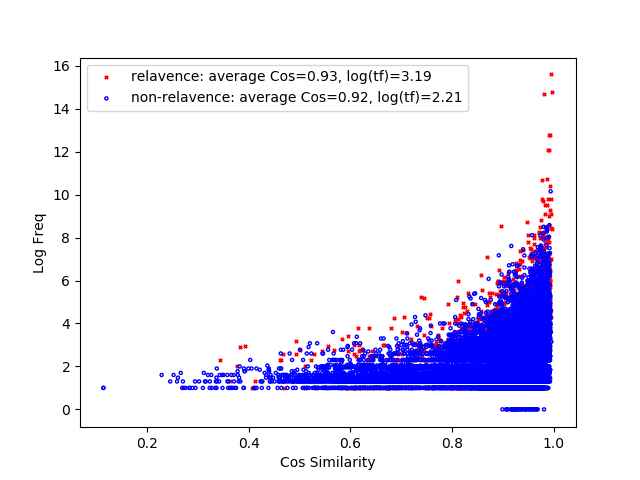
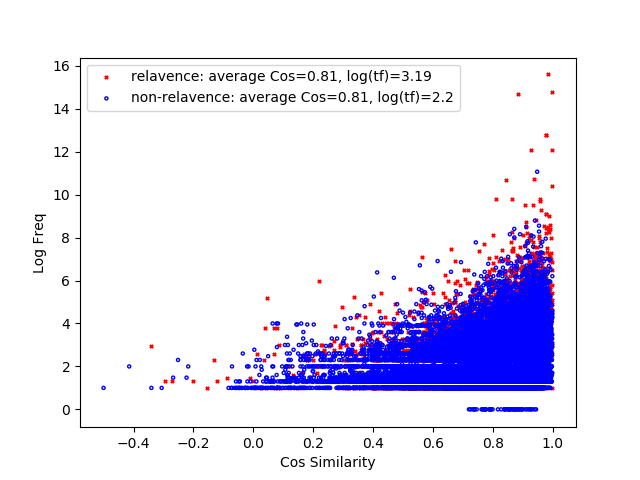
Second Start

diff --git a/utils.py b/utils.py
@@ -34,7 +34,7 @@ def ExtractPreTrained(pre_trained_model_path, stored_path):
 def IDFOfDataSet(path, name):
     print('Generating IDF of current dataset!!!')
     reader = pd.read_csv(path, sep='\t')
-    stop_words = set(stopwords.words('english'))
+    # stop_words = set(stopwords.words('english'))
     idf = {}
     df = {}
 
@@ -46,9 +46,11 @@ def IDFOfDataSet(path, name):
         idf[id] = {}
         df = {}
         for i, row in qid_reader.iterrows():
-            passage_lst = re.sub("[^\sa-zA-Z0-9]+", ' ', row['passage'].lower()).split(' ')
+            # passage_lst = re.sub("[^\sa-zA-Z0-9]+", ' ', row['passage'].lower()).split(' ')
+            passage_lst = re.split('(\W)', row['passage'].lower())
             for term in passage_lst:
-                if term not in stop_words and term != '':
+                # if term not in stop_words and term != '':
+                if term != '':
                     if term not in idf[id]:
                         idf[id][term] = 1
                         df[term] = set()
@@ -65,8 +67,6 @@ def IDFOfDataSet(path, name):
     with open(name, 'w') as writeFile:
         json.dump(idf, writeFile)
     writeFile.close()
-
-
 
 
 
@@ -149,11 +149,27 @@ def accuracy(y, y_pred):
     acc = np.sum(check)/num
     return acc
 
-def generateEmbedding(embedding, query, passage):
+def generateEmbedding(embedding, query, passage, idf):
     stemmer = SnowballStemmer("english") 
     stop_words = set(stopwords.words('english')) 
     query_term_count = 0
     query_embedding = np.zeros(50)
+
+    #tf calculation
+    query_tf = {}
+    for term in query:
+        if term not in query_tf:
+            query_tf[term] = 1
+        else:
+            query_tf[term] += 1
+
+    pass_tf = {}
+    for term in passage:
+        if term not in pass_tf:
+            pass_tf[term] = 1
+        else:
+            pass_tf[term] += 1
+
     for term in query:
         # if term not in stop_words:
             
@@ -161,15 +177,34 @@ def generateEmbedding(embedding, query, passage):
 
         if term in embedding:
             norm_embedding = np.array(embedding[term])
-            norm_embedding = norm_embedding/np.linalg.norm(norm_embedding)
-            query_embedding += norm_embedding
+            try:
+                norm_embedding = (norm_embedding/np.linalg.norm(norm_embedding)) * (0.001 + query_tf[term]*np.log2(idf[term]))
+                query_embedding += norm_embedding
+            except KeyError as e:
+
+                norm_embedding = (norm_embedding/np.linalg.norm(norm_embedding)) * 0.001
+                query_embedding += norm_embedding
+
+                # print(idf)
+                # print(term)
+                # if term in idf:
+                #     print(True)
+                # else:
+                #     print(False)
+                # print('\n')
+                
         else:
             #print('Not Found: ', term)
             new_term = stemmer.stem(term)
             if new_term in embedding:
                 norm_embedding = np.array(embedding[new_term])
-                norm_embedding = norm_embedding/np.linalg.norm(norm_embedding)
-                query_embedding += norm_embedding
+                try:
+                    norm_embedding = (norm_embedding/np.linalg.norm(norm_embedding)) * (0.001 + query_tf[term]*np.log2(idf[term]))
+                    query_embedding += norm_embedding
+                except KeyError as e:
+
+                    norm_embedding = (norm_embedding/np.linalg.norm(norm_embedding)) * 0.001
+                    query_embedding += norm_embedding
             # else:
             #     spec_vector = np.zeros(50) -1
             #     spec_vector = spec_vector/np.linalg.norm(spec_vector)
@@ -187,14 +222,14 @@ def generateEmbedding(embedding, query, passage):
 
         if term in embedding:
             norm_embedding = np.array(embedding[term])
-            norm_embedding = norm_embedding/np.linalg.norm(norm_embedding)
+            norm_embedding = (norm_embedding/np.linalg.norm(norm_embedding)) * (0.001 + pass_tf[term]*np.log2(idf[term]))
             passage_embedding += norm_embedding
         else:
             #print('Not Found: ', term)
             new_term = stemmer.stem(term)
             if new_term in embedding:
                 norm_embedding = np.array(embedding[new_term])
-                norm_embedding = norm_embedding/np.linalg.norm(norm_embedding)
+                norm_embedding = (norm_embedding/np.linalg.norm(norm_embedding)) * (0.001 + pass_tf[term]*np.log2(idf[term]))
                 passage_embedding += norm_embedding
             #print('P-Still Not Found: ', new_term)
             # else:
@@ -235,11 +270,19 @@ def log_freqWeighting(query_lst, passage_lst, idf):
             else:
                 pass_dict[term] += 1
     
+    # tf_idf = []
     for term in query_lst:
         if term not in stop_words:
             if term in pass_dict:
+                # tf_idf.append(pass_dict[term] * np.log10(idf[term]))
                 # score += pass_dict[term] * np.log10(idf[term])
                 score += 1 + np.log10(pass_dict[term])
+                # score += 1
+    # tf_idf = np.array(tf_idf)
+    # if np.linalg.norm(tf_idf) == 0:
+    #     score = 0
+    # else:
+    #     score = np.sum(tf_idf/np.linalg.norm(tf_idf))
 
     return np.atleast_2d(np.array(score))
 
@@ -258,11 +301,11 @@ def Data_Embedding(embedding, val_reader, queryID, val_idf, mode='val'):
         # passage = word_tokenize(row['passage'].lower())
         #print(passage)
 
-        query_lst = re.sub("[^\sa-zA-Z0-9]+", ' ', row['queries'].lower()).split(' ')
-        passage_lst = re.sub("[^\sa-zA-Z0-9]+", ' ', row['passage'].lower()).split(' ')
+        # query_lst = re.sub("[^\sa-zA-Z0-9]+", ' ', row['queries'].lower()).split(' ')
+        # passage_lst = re.sub("[^\sa-zA-Z0-9]+", ' ', row['passage'].lower()).split(' ')
 
         query_passage_embedding = generateEmbedding(embedding, query, passage)
-        log_freq = log_freqWeighting(query_lst, passage_lst, val_idf)
+        log_freq = log_freqWeighting(query, passage, val_idf)
         query_passage_embedding = np.hstack((query_passage_embedding, log_freq))
 
         cur_pid = np.atleast_2d(row['pid'])

diff --git a/LambdaMart.py b/LambdaMart.py
@@ -34,10 +34,10 @@ def batchDMatrix(reader, sampled_data_qid, embedding, idf):
     print('Gnerating Data Shape em: {}, label: {}'.format(batch_em.shape, batch_label.shape))
     return dmatrix
 
-def randomSampleKfold(qid_unique, qid_index):
+def randomSampleKfold(qid_unique, qid_index, ratio=0.05):
     # print(len(qid_index))
     # sampled_train_index = train_qid_index[np.random.choice(len(train_qid_index), int(0.05*len(train_qid_index)), replace=True)]
-    sampled_index = qid_index[np.random.choice(len(qid_index), int(0.05*len(qid_index)), replace=True)]
+    sampled_index = qid_index[np.random.choice(len(qid_index), int(ratio*len(qid_index)), replace=False)]
     # print(len(sampled_index) )
 
     
@@ -65,19 +65,21 @@ if __name__=="__main__":
     #from xgb sample code https://github.com/dmlc/xgboost/blob/master/demo/rank/rank.py
     params_ndcg_e1 = {'objective': 'rank:ndcg', 'eta': 0.1, 'gamma': 1.0,
           'min_child_weight': 0.1, 'max_depth': 6}
-    params_ndcg_e2 = {'objective': 'rank:ndcg', 'eta': 0.01, 'gamma': 1.0,
+    params_ndcg_e2 = {'objective': 'rank:ndcg', 'eta': 0.05, 'gamma': 1.0,
           'min_child_weight': 0.1, 'max_depth': 6}
-    params_ndcg_g1 = {'objective': 'rank:ndcg', 'eta': 0.1, 'gamma': 0.1,
+    params_ndcg_e = {'objective': 'rank:ndcg', 'eta': 1, 'gamma': 0.1,
           'min_child_weight': 0.1, 'max_depth': 6}
-    params_ndcg_c2 = {'objective': 'rank:ndcg', 'eta': 0.1, 'gamma': 1.0,
-          'min_child_weight': 0.01, 'max_depth': 6}
     
     params_pairwise_e1 = {'objective': 'rank:pairwise', 'eta': 0.1, 'gamma': 1.0,
           'min_child_weight': 0.1, 'max_depth': 6}
-    
+    params_pairwise_e2 = {'objective': 'rank:pairwise', 'eta': 0.05, 'gamma': 1.0,
+          'min_child_weight': 0.1, 'max_depth': 6}
 
-    params_dict = {'params_ndcg_e1': params_ndcg_e1, 'params_ndcg_e2': params_ndcg_e2,
-    'params_ndcg_g1': params_ndcg_g1, 'params_pairwise_e1':params_pairwise_e1}
+
+    params_dict = {'params_ndcg_e': params_ndcg_e, 'params_ndcg_e1': params_ndcg_e1, 
+    'params_ndcg_e2':params_ndcg_e2, 'params_pairwise_e1':params_pairwise_e1, 'params_pairwise_e2':params_pairwise_e2}
+
+    params_dict = {'params_ndcg_e': params_ndcg_e}
 
     kf = KFold(n_splits=5, random_state=None, shuffle=False)
 
@@ -96,25 +98,35 @@ if __name__=="__main__":
     #       'max_depth': 6, 'n_estimators': 4}
     # passRank = xgb.sklearn.XGBRanker(**params) 
     
-    maxIteration = 1
+    maxIteration = 2
     batchsize = 300
     
-    for train_qid_index, eval_qid_index in kf.split(train_qid_unique):
-        print('Train Fold Length: {} Eval Fold Length: {}'.format(len(train_qid_index), len(eval_qid_index)))
-        passRank = None
-        eval_ndcg = {}
-        for i in range(maxIteration):
-            print('Iteration {}'.format(i+1))
-            shuffle(train_qid_index)
-            for start in range(0, len(train_qid_index), batchsize):
+    best_model = None
+    best_param = None
+    cur_acc = 0.0
 
-                if start + batchsize > len(train_qid_index):
-                    train_data_qid = [train_qid_unique[x] for x in train_qid_index[start:]]
-                    # print('len of train {}'.format(len(train_data_qid))
-                else:
-                    train_data_qid = [train_qid_unique[x] for x in train_qid_index[start:start+batchsize]]
-                    # print('len of train {}'.format(len(train_data_qid))
+    for params_name in params_dict:
+        print('current setting ', params_name)
+        params = params_dict[params_name]
+        batch = 0
+        passRank = None
+        for train_qid_index, eval_qid_index in kf.split(train_qid_unique):
+            # print('Train Fold Length: {} Eval Fold Length: {}'.format(len(train_qid_index), len(eval_qid_index)))
+            batch += 1
+            eval_ndcg = {}
+            for i in range(maxIteration):
+                print('Batch {}, Iteration {}'.format(batch, i+1))
+                # shuffle(train_qid_index)
+                # for start in range(0, len(train_qid_index), batchsize):
+
+                    # if start + batchsize > len(train_qid_index):
+                    #     train_data_qid = [train_qid_unique[x] for x in train_qid_index[start:]]
+                    #     # print('len of train {}'.format(len(train_data_qid))
+                    # else:
+                    #     train_data_qid = [train_qid_unique[x] for x in train_qid_index[start:start+batchsize]]
+                    #     # print('len of train {}'.format(len(train_data_qid))
                 
+                train_data_qid = randomSampleKfold(train_qid_unique, train_qid_index)
                 eval_data_qid = randomSampleKfold(train_qid_unique, eval_qid_index)
 
                 print('Train DMatrix')
@@ -125,11 +137,17 @@ if __name__=="__main__":
                 passRank = xgb.train(params, train_dmatrix,
                         evals=[(eval_dmatrix, 'validation')], evals_result = eval_ndcg, xgb_model=passRank )
             
-                print(eval_ndcg['validation'], eval_ndcg['validation'][-1])
+            print('Batch {}, Metrics History are {} '.format(i, eval_ndcg['validation'], eval_ndcg['validation']['map'][-1]))
+        
+        if eval_ndcg['validation']['map'][-1] > cur_acc:
+            best_model = passRank
+            best_param = params
 
 
-        break
+            # break
 
+    print('Best params setting ', best_param)
+    print('Best xgb ranker model ', best_model)
     '''
     
 

diff --git a/DataGenerator.py b/DataGenerator.py
@@ -76,9 +76,9 @@ class dataPipeLine:
             query_lst = re.sub("[^\sa-zA-Z0-9]+", ' ', row['queries'].lower()).split(' ')
             passage_lst = re.sub("[^\sa-zA-Z0-9]+", ' ', row['passage'].lower()).split(' ')
 
-            query_passage_embedding = generateEmbedding(self.embedding, query, passage)
-
             qid = str(row['qid'])
+            query_passage_embedding = generateEmbedding(self.embedding, query, passage, self.idf[qid])
+            
             log_freq = log_freqWeighting(query_lst, passage_lst, self.idf[qid])
             query_passage_embedding = np.hstack((query_passage_embedding, log_freq))
 
@@ -108,8 +108,9 @@ class dataPipeLine:
             query_lst = re.sub("[^\sa-zA-Z0-9]+", ' ', row['queries'].lower()).split(' ')
             passage_lst = re.sub("[^\sa-zA-Z0-9]+", ' ', row['passage'].lower()).split(' ')
 
-            query_passage_embedding = generateEmbedding(self.embedding, query, passage)
             qid = str(row['qid'])
+            query_passage_embedding = generateEmbedding(self.embedding, query, passage, self.idf[qid])
+            
             log_freq = log_freqWeighting(query_lst, passage_lst, self.idf[qid])
             query_passage_embedding = np.hstack((query_passage_embedding, log_freq))
 
@@ -226,9 +227,9 @@ class dataPipeLine:
 
             query_lst = re.sub("[^\sa-zA-Z0-9]+", ' ', row['queries'].lower()).split(' ')
             passage_lst = re.sub("[^\sa-zA-Z0-9]+", ' ', row['passage'].lower()).split(' ')
-
-            query_passage_embedding = generateEmbedding(self.embedding, query, passage)
             qid = str(row['qid'])
+            query_passage_embedding = generateEmbedding(self.embedding, query, passage, self.idf[qid])
+            
             log_freq = log_freqWeighting(query_lst, passage_lst, self.idf[qid])
             query_passage_embedding = np.hstack((query_passage_embedding, log_freq))
 

diff --git a/WordsEmbedding_LR.py b/WordsEmbedding_LR.py
@@ -176,14 +176,13 @@ class LogisticRegressor:
 if __name__=="__main__":
     init = False
 
+    
     pre_trained_model_path = '/Users/leekaho/Desktop/part2/glove/glove.6B.50d.txt'
     gloveEmbedding_path = '/Users/leekaho/Desktop/part2/gloveEmbedding.json'
     train_path = '/Users/leekaho/Desktop/part2/train_data.tsv'
     val_path = '/Users/leekaho/Desktop/part2/validation_data.tsv'
     idf_val = '/Users/leekaho/Desktop/part2/val_idf.json'
     idf_train = '/Users/leekaho/Desktop/part2/train_idf.json'
-
-    # IDFOfDataSet(val_path, idf_val)
 
     if init:
         ExtractPreTrained(pre_trained_model_path, gloveEmbedding_path)
